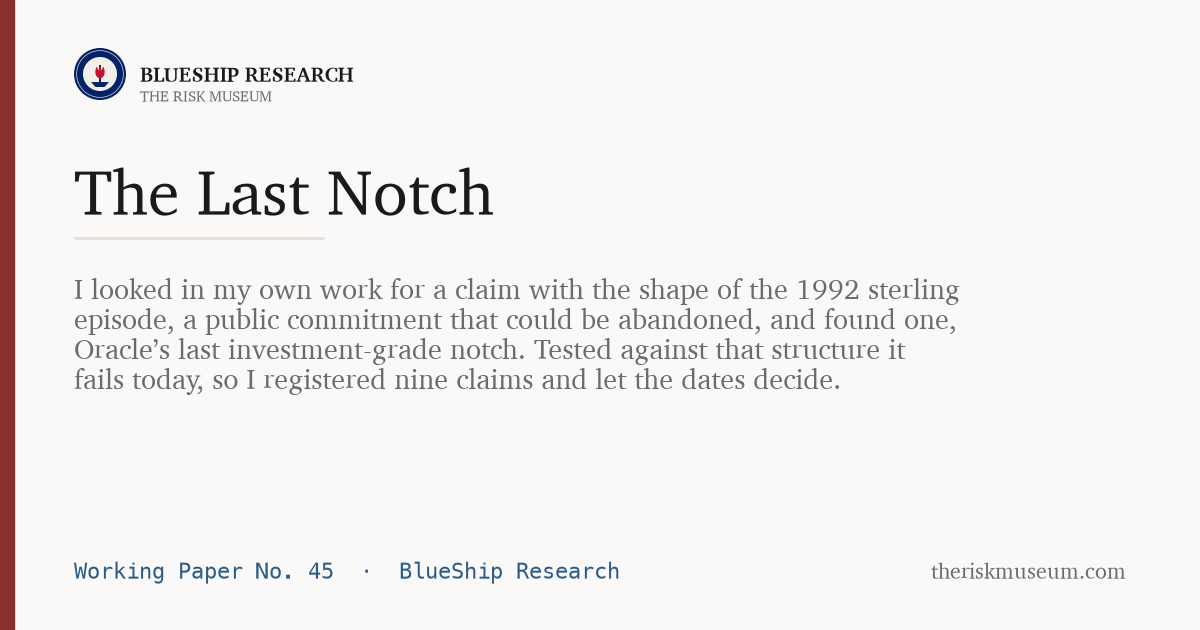
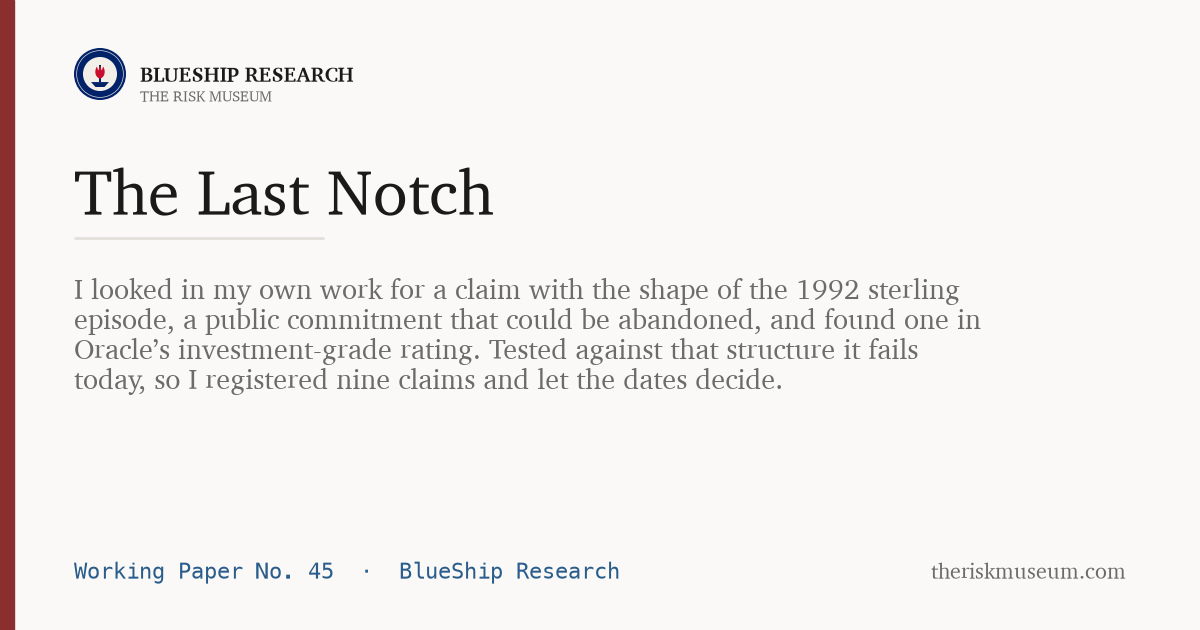
graveyard update 2026-10-07

Changed region(s): [[0.0617, 0.5429, 0.7708, 0.6333]]

diff --git a/notes/the-last-notch.html b/notes/the-last-notch.html
@@ -288,29 +288,30 @@ footer { max-width:912px; margin:3rem 0 0; padding-top:1.3rem;
 </div>
 <a class="tearmark" href="https://www.linkedin.com/in/vasiliosdimopoulos/" target="_blank" rel="noopener"><b>Get in touch</b><i>Reach out on LinkedIn</i></a>
 <div class="hero"><div class="hero-in">
-<div class="eyebrow">Working Paper No. 45 &middot; BlueShip Research · 7 October 2026 &middot; a forecast graded as a forecast</div>
+<div class="eyebrow">Working Paper No. 45 &middot; BlueShip Research · 7 October 2026 &middot; the French franc, not sterling</div>
 <h1>The Last Notch</h1>
-<p class="lede">I looked in my own work for a claim with the shape of the 1992 sterling episode, a public commitment that could be abandoned, and found one, Oracle&rsquo;s last investment-grade notch. Tested against that structure it fails today, so I registered nine claims and let the dates decide.</p>
+<p class="lede">I looked in my own work for a claim with the shape of the 1992 sterling episode, a public commitment that could be abandoned, and found one in Oracle&rsquo;s investment-grade rating. Tested against that structure it fails today, so I registered nine claims and let the dates decide.</p>
 <div class="who"><b>V. Dimopoulos</b> &nbsp;&middot;&nbsp; BlueShip Research</div>
 </div></div>
 <main><div class="article-body">
-<p class="abstract"><span class="lab">Abstract.</span> A forecast, graded as such. I looked in my own work for a claim with the shape of the 1992 sterling episode, a public commitment that could be abandoned, and found one. Tested against that structure it fails today, so I register it and let the dates decide.</p>
+<p class="abstract"><span class="lab">Abstract.</span> This is a forecast, graded as such. I looked in my research for a claim with the shape of the 1992 sterling episode, a public commitment that could be abandoned, and found one in Oracle&rsquo;s investment-grade rating. It fails that structure today, so I register it and let the dates decide.</p>
 
 <h2>1. The commitment</h2>
-<p>On 1 February 2026 Oracle published a financing plan to keep an investment-grade balance sheet and said so again in March. My Backlog Ledger (No. 44) sets out the arithmetic behind that promise. Oracle spends $1.62 on capital spending and finance-lease repayments for every dollar of operating cash, against 87 cents across the seven builders together. It has $288bn of leases signed and not yet begun, trailing free cash flow of minus $28.7bn, and a backlog that needs $20.75bn of revenue a quarter against $19.3bn in its latest. Last quarter $11.4bn of its operating cash was customer prepayments, and its first $20bn equity programme is used up.</p>
-<p>The registered claims test whether three things can hold together: the grade, the build the backlog promises, and funding that does not come from the buyers whose credit is the risk. In 1992 the parity, German rates and British mortgages could not.</p>
+<p>On 1 February 2026 Oracle published a financing plan to keep an investment-grade balance sheet, and said so again in March. My Backlog Ledger (No. 44) holds the arithmetic. For every dollar of operating cash, Oracle puts $1.62 into capital spending and finance-lease repayments, against 87 cents across the seven builders together. It has $288bn of leases signed and not yet begun, its trailing free cash flow is minus $28.7bn, and its backlog needs $20.75bn of revenue a quarter against $19.3bn in its latest. Last quarter $11.4bn of its operating cash was customer prepayments, and its first $20bn equity programme is used up.</p>
+<p>The registered claims ask whether three things can hold together: the grade, the build the backlog promises, and funding that does not come from the buyers whose credit is the risk. In 1992 the parity, German rates and British mortgages could not hold together.</p>
 <h2>2. Why it is not a 1992 bet today</h2>
+<p>Four of the twelve elements are fatal if missing, and the table sets Oracle beside each.</p>
 <div class="tbl"><table>
 <thead><tr><th>Element</th><th>1992</th><th>Oracle, October 2026</th></tr></thead>
 <tbody>
 <tr><td>Ammunition that cannot be printed</td><td>Reserves of about $40bn against the selling</td><td>Partial. Oracle cannot print cash, but it can dilute and draw prepayments</td></tr>
 <tr><td>A clock the defender does not control</td><td>A referendum on a fixed date</td><td>None. S&amp;P&rsquo;s outlook is stable, and its own criteria call that a rating not likely to change</td></tr>
-<tr><td>The ally refuses</td><td>The Bundesbank declined to help</td><td>Shareholders and customers supplied $31bn in one quarter; the labs still raise at higher marks</td></tr>
-<tr><td>A bounded cost of being wrong</td><td>Carry under 20bp a year, and the Bank had to buy at the band</td><td>Protection costs about 249bp a year on the public tape, between the BB (191bp) and single-B (312bp) index averages, so a label change is largely in the price. No level pins the spread, and fallen-angel spreads have on average tightened after an index exit, a base rate from the literature, not a view on this issuer</td></tr>
+<tr><td>The ally refuses</td><td>The Bundesbank declined to help</td><td>Shareholders and customers supplied $31bn in one quarter, and the labs still raise at higher marks</td></tr>
+<tr><td>A bounded cost of being wrong</td><td>Carry under 20bp a year, and the Bank had to buy at the band</td><td>Protection costs about 249bp a year on the public tape, between the BB (191bp) and single-B (312bp) index averages, so a label change is largely in the price. No level pins the spread, and fallen-angel spreads have on average tightened after an index exit, which is a base rate from the literature and not a view on this issuer</td></tr>
 </tbody></table></div>
-<p>Three of the four fail and the first is partial. The closest analogue is the French franc of September 1992, which carried a similar reading and held because its ally stood behind it. The conditions under which the three failing elements would turn are stated here in advance: an agency has started a clock, protection trades at or inside the BB index average, and the ally has refused on a dated event. Until then the family stays graded FORECAST ONLY.</p>
+<p>Three of the four fail and the first is partial. The closest analogue is the French franc of September 1992, which carried a similar diagnosis and held because its ally stood behind it. What would turn the three failing elements is stated in advance: an agency starts a clock, protection trades at or inside the BB index average, and the ally refuses on a dated event. Until then the family stays graded FORECAST ONLY.</p>
 <h2>3. The claims</h2>
-<p>Nine claims, registered 5 October 2026, frozen by hash on the Forecast Wing and priced 7 October 2026, scored by Brier whichever way they fall. Six are on Oracle, three on PJM&rsquo;s capacity price cap, carried because my forecast F7 already sits on it. Probabilities are mine; the engine supplied the base rates.</p>
+<p>The nine claims were registered on 5 October 2026, frozen by hash on the Forecast Wing and priced on 7 October 2026, to be scored by Brier whichever way they fall. Six concern Oracle and three concern PJM&rsquo;s capacity price cap, carried because my forecast F7 already sits on it. The probabilities are mine; the engine supplied the base rates.</p>
 <div class="tbl"><table>
 <thead><tr><th>Id</th><th>Claim, in short</th><th>Registered deadline</th><th>P</th></tr></thead>
 <tbody>
@@ -324,14 +325,14 @@ footer { max-width:912px; margin:3rem 0 0; padding-top:1.3rem;
 <tr><td>G2</td><td>No cap is in force when the 2030/31 auction opens</td><td>31 Dec 2027</td><td>30%</td></tr>
 <tr><td>G3</td><td>The 2030/31 price clears above the old cap, re-expressed</td><td>31 Dec 2027</td><td>18%</td></tr>
 </tbody></table></div>
-<p>Full wording, sources and resolution rules are on the wing. The events come sooner than the deadlines: Oracle&rsquo;s November-quarter 10-Q about December 2026, the 2029/30 auction results about 22 December 2026, the 2030/31 auction in May 2027. O6 is the cell that matters: the promises are kept and the grade is lost in the same year, the pattern of the fibre build of 2000.</p>
+<p>Full wording, sources and resolution rules are on the wing. The events arrive before the deadlines: Oracle&rsquo;s November-quarter 10-Q about December 2026, the 2029/30 auction results around 22 December 2026, and the 2030/31 auction in May 2027. O6 is the cell where the promises are kept and the grade is lost in the same year, as in the fiber build of 2000.</p>
 <h2>4. What this does not claim</h2>
-<p>It is not advice and I hold no position; this site trades on paper only. The structure does not guarantee the outcome: the franc held. Nothing here says Oracle will lose its grade or that any obligation will go unpaid; my ledger shows 19 of 19 closed promises met. The ratings, the March reaffirmation and OpenAI&rsquo;s valuation come from secondary sources. Nine claims that share one driver, the AI capital cycle, are not nine independent bets.</p>
+<p>This is not advice and I hold no position; this site trades on paper only. The structure does not guarantee the outcome, as the franc showed. Nothing here says Oracle will lose its grade or that any obligation will go unpaid; my ledger shows 19 of 19 closed promises met. The ratings, the March reaffirmation and OpenAI&rsquo;s valuation come from secondary sources.</p>
 
 <div class="prov"><dl>
-<dt>Method</dt><dd>The structure test is the 1992 trade dissected into twelve elements, four of them fatal if missing: unprintable ammunition, no deep-pocketed ally, a bounded cost of being wrong and a dated forcing event. Forty-eight looks from my research, overlaps not removed, were screened against it. Claim text, criteria and sources were frozen on 5 October 2026 (SHA-256 2472c493734caac294363bedb2e458afdccf52fb05b521f1b9c4265b3efe5211) before any probability was set.</dd>
+<dt>Method</dt><dd>The structure test is the 1992 trade dissected into twelve elements, four of them fatal if missing: unprintable ammunition, no deep-pocketed ally, a bounded cost of being wrong and a dated forcing event. Forty-eight looks from my research, with overlaps not removed, were screened against it. Claim text, criteria and sources were frozen on 5 October 2026 (SHA-256 2472c493734caac294363bedb2e458afdccf52fb05b521f1b9c4265b3efe5211) before any probability was set.</dd>
 <dt>Sources</dt><dd>Oracle 10-Q 0001193125-26-389274 and 10-K 0001193125-26-277521; Oracle&rsquo;s financing plan of 1 February 2026 (SEC free-writing prospectus); the Bloomberg US Corporate Index factsheet; PJM&rsquo;s 2029/30 planning parameters and FERC docket ER26-3515; Working Paper No. 44 and its spec. Protection levels are daily medians from the DTCC public price-dissemination tape for 1 and 2 October 2026, a partial tape of reportable trades; index spreads are from FRED.</dd>
-<dt>Honesty</dt><dd>The Oracle claims are probabilities on a rating label, set with the current spread in view, though no probability was derived from it; they are graded FORECAST ONLY and that grade is the point. O2 sits above the engine&rsquo;s band; the seven others priced against a band sit inside it, and O3 has none. G1 cuts against my own F7 (72%): the two are scored jointly so that two YES results count once. No claim here passed a gate; an event of one cannot. The cost of being wrong is a Brier score and a line in my own graveyard.</dd>
+<dt>Honesty</dt><dd>The Oracle claims are probabilities on a rating label, set with the current spread in view, though no probability was derived from it; they are graded FORECAST ONLY and that grade is the point. The nine share one driver, the AI capital cycle, so they are not nine independent bets. At registration S&amp;P rated Oracle BBB- with a stable outlook, Moody&rsquo;s Baa2 with a negative outlook and Fitch BBB, all read from secondary reports; the middle of the three is BBB, two notches above the line, so S&amp;P&rsquo;s notch is the last and O1 still needs a second agency to fall two. O2 sits above the engine&rsquo;s band, the seven others priced against a band sit inside it, and O3 has no band. G1 cuts against my own F7 (72%), so the two are scored jointly and two YES results count once. No claim here passed a gate, and a one-off event cannot. The cost of being wrong is a Brier score and a line in my own graveyard. The prose was smoothed on 7 October 2026 after first publication; no number, claim or probability changed.</dd>
 <dt>Related</dt><dd>No. 44, The Backlog Ledger. No. 40, The Gate Is the Product. F7 on the Forecast Wing.</dd>
 </dl></div>
 

diff --git a/forecasts.html b/forecasts.html
@@ -226,7 +226,8 @@ main .topbar { padding-left:0 !important; padding-right:0 !important }
 .sharebox a:hover, .sharebox button:hover { text-decoration:underline }
 @media (max-width:820px) { .sharebox { display:none } }
 @media print { .sharebox { display:none } }
-/* share:end */</style><!-- social:start -->
+/* share:end */</style>
+<!-- social:start -->
 <meta property="og:type" content="website">
 <meta property="og:site_name" content="The Risk Museum">
 <meta property="og:title" content="The Forecast Wing | Pre-Registered Macro Forecasts | The Risk Museum">
@@ -240,7 +241,8 @@ main .topbar { padding-left:0 !important; padding-right:0 !important }
 <meta name="twitter:title" content="The Forecast Wing | Pre-Registered Macro Forecasts | The Risk Museum">
 <meta name="twitter:description" content="14 pre-registered binary forecasts on Modern Mercantilism, AI, and their collision, each with objective resolution criteria, a public base-rate band, and live status tracked by the museum's nightly pipeline.">
 <!-- social:end -->
-</head><body><!-- share:start -->
+</head><body>
+<!-- share:start -->
 <div class="sharebox"><b>Share this page</b><a href="https://www.linkedin.com/sharing/share-offsite/?url=https%3A%2F%2Ftheriskmuseum.com%2Fforecasts.html" target="_blank" rel="noopener">LinkedIn</a><a href="mailto:?subject=The%20Forecast%20Wing%20%7C%20Pre-Registered%20Macro%20Forecasts%20%7C%20The%20Risk%20Museum&amp;body=Worth%20a%20read%3A%20https%3A//theriskmuseum.com/forecasts.html">Email</a><button type="button" onclick="var b=this;(navigator.clipboard?navigator.clipboard.writeText(location.href):Promise.reject()).then(function(){b.textContent='Copied'}).catch(function(){window.prompt('Copy this link:',location.href)})">Copy link</button></div>
 <!-- share:end -->
 <main>
